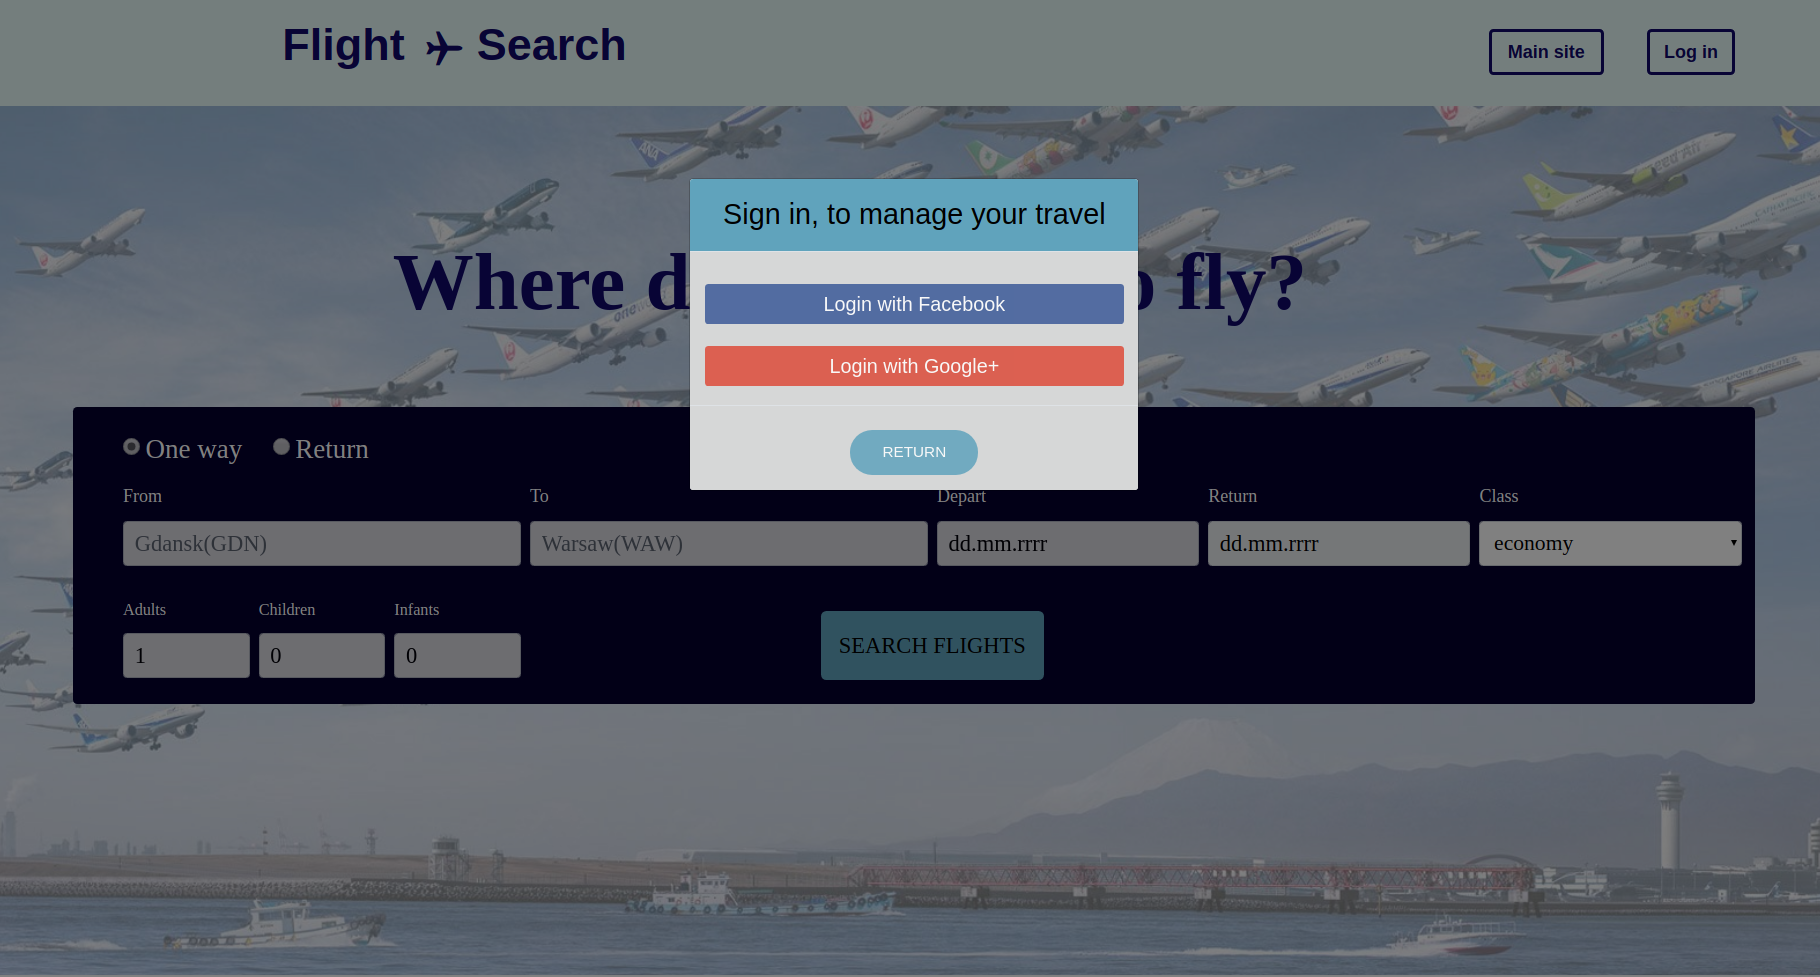
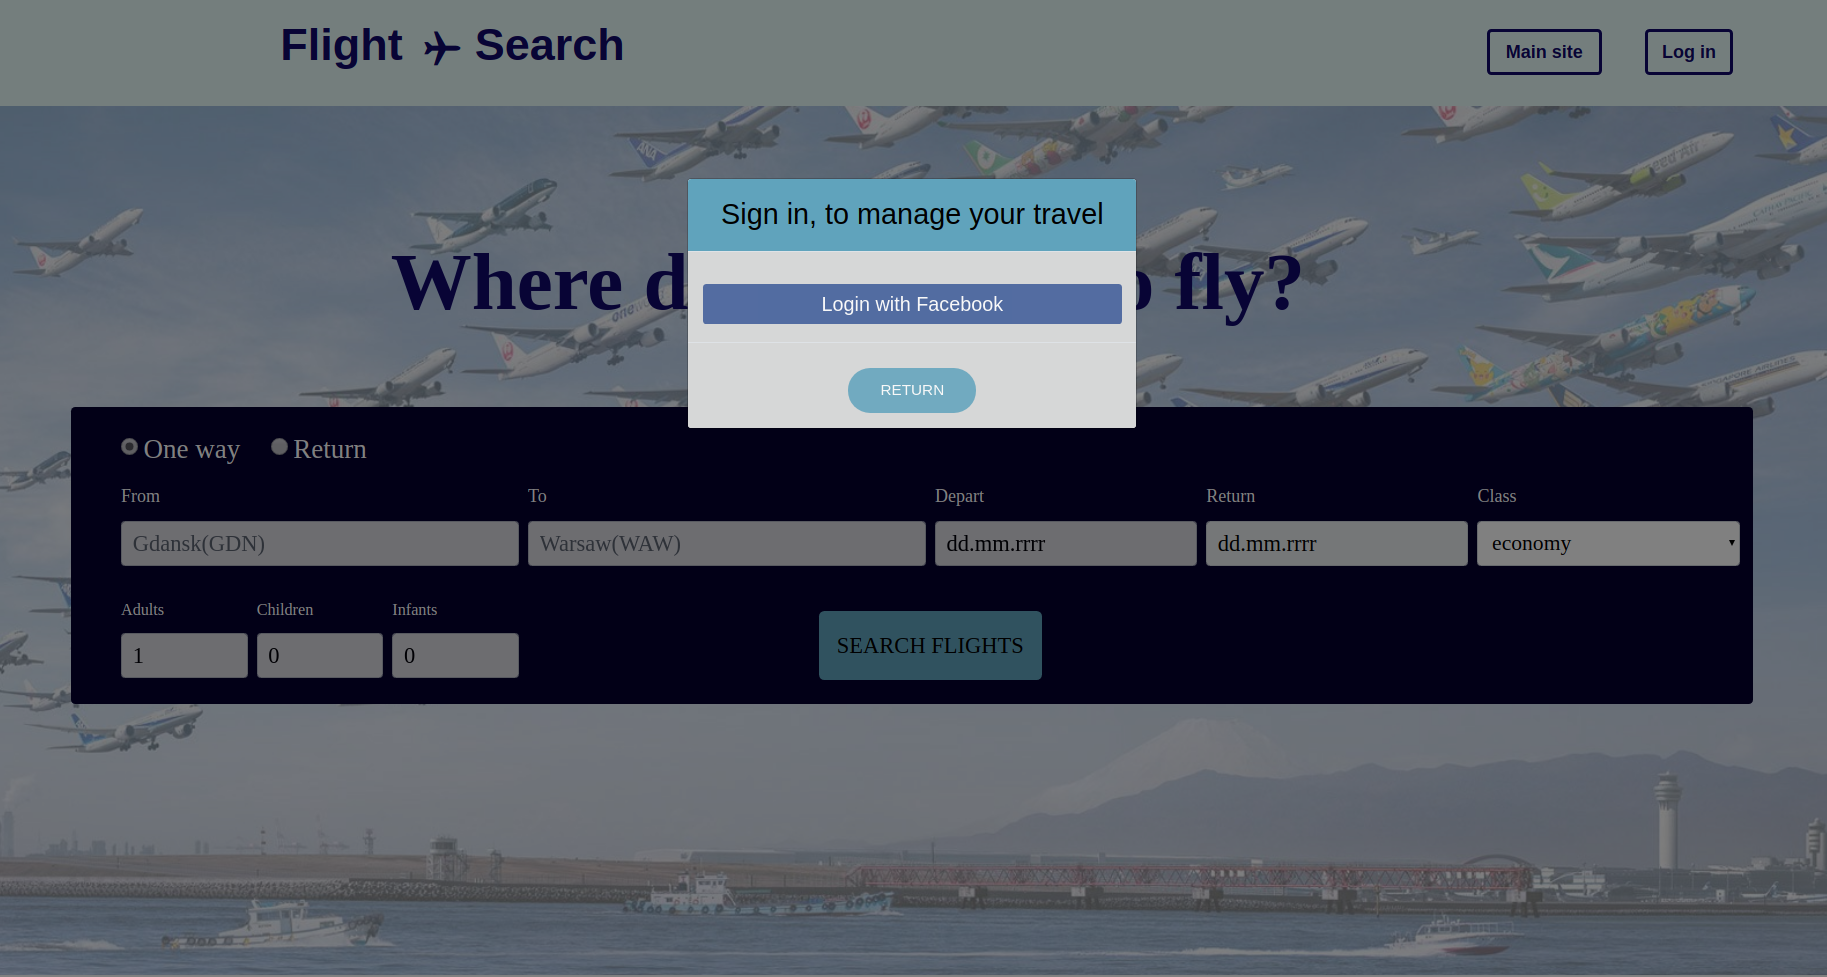
.

diff --git a/README.md b/README.md
@@ -9,7 +9,7 @@
 * [Inspiration](#inspiration)
 
 ## General info
->The main feature of the application is flight search system. Not authenticated users has the ability to search one way or multiple flights between two cities, filter them and sign in with facebook or google by oAuth2. 
+>The main feature of the application is flight search system. Not authenticated users has the ability to search one way or multiple flights between two cities, filter them and sign in with facebook by oAuth2. 
 Logged users can add single flights to their favourite flights, which causes that they will get email with changing price of flight every day.
 
 ## Features
@@ -54,7 +54,7 @@ in this view, in addition to all flight information, the user gets a list of age
 
 ### Oauth2
 
-> The user can log in to the application via oatuh facebook or google.
+> The user can log in to the application via oatuh facebook.
 > After logging in, the user gets the opportunity to use the functionality to manage favorite flights. 
 
 ![Users view](./docs/modalView.png) 
